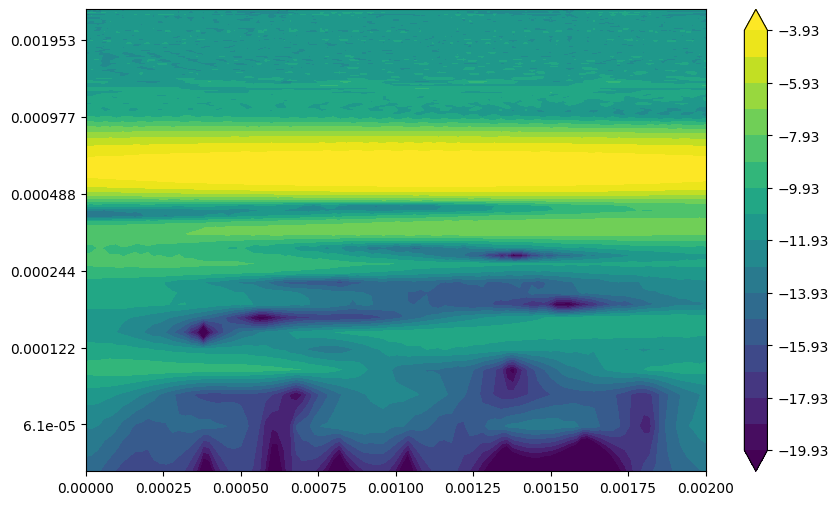
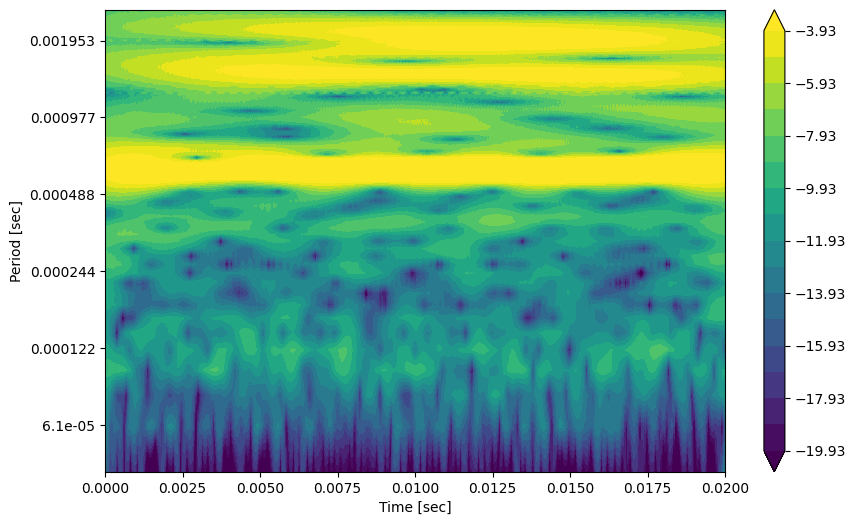
1
1

diff --git a/CWT_v2/CWT_ex.py b/CWT_v2/CWT_ex.py
@@ -19,11 +19,11 @@ class AudioUtil():
 # ==============================================
 
 data, Fsamp = AudioUtil.open("TRAIN M1 D40 L0 LABEL0 Num170.wav")
-MaxIdx = 100
+MaxIdx = 1000
 dataprocess = 'DataCut'  # ReSampl / DataCut
 # waveletname = 'cmor63.5-1'
-waveletname = 'cmor10-1'
-# waveletname = 'mexh'
+# waveletname = 'cmor10-1'
+waveletname = 'mexh'
 scale_min = 2
 scale_max = 300
 scales = np.arange(scale_min, scale_max)
@@ -62,8 +62,11 @@ if waveletname == 'mexh':
     Not Complex cwtmatr. --> direct plotting is possible !
     '''
     cwtmatr, freqs = pywt.cwt(data, scales,waveletname, dt)
+    # cwtmatr[0:15] = 0
     plt.imshow(cwtmatr, cmap='viridis', aspect='auto',
                  vmax=abs(cwtmatr).max(), vmin=-abs(cwtmatr).max())
+    plt.ylabel('Scale')
+    plt.xlabel('Time [bin]')
     plt.savefig('wavelet_{}_scale_min_{}_max_{}.png'.format(waveletname, scale_min, scale_max),
                 dpi=100, bbox_inches='tight')
     plt.close('all')
@@ -77,7 +80,7 @@ elif waveletname == 'cmor63.5-1':
     Below we'll use the complex Morlet wavelet in SciPy which looks like this:
     '''
 
-    cwtmatr, freqs = pywt.cwt(data, scales,waveletname, dt)  # cmor63.5-2    mexh
+    cwtmatr, freqs = pywt.cwt(data, scales,waveletname, dt)  #
     power = (abs(cwtmatr)) ** 2
     period = 1. / freqs
     scale0 = 0.000001
@@ -89,17 +92,19 @@ elif waveletname == 'cmor63.5-1':
     contourlevels = np.log2(levels)
 
     # Data
-    wt_freq_results = np.log2(period)
+    wt_prd_reuslts = np.log2(period)
     wt_power_results = np.log2(power)
-    print(wt_freq_results.shape)
+    print(wt_prd_reuslts.shape)
     print(wt_power_results.shape)
     fig, ax = plt.subplots(figsize=(10, 6))
-    im = ax.contourf(time, wt_freq_results, wt_power_results, contourlevels, extend='both', cmap='viridis')
-    yticks = 2**np.arange(np.ceil(wt_freq_results.min()), np.ceil(wt_freq_results.max()))
+    im = ax.contourf(time, wt_prd_reuslts, wt_power_results, contourlevels, extend='both', cmap='viridis')
+    yticks = 2**np.arange(np.ceil(wt_prd_reuslts.min()), np.ceil(wt_prd_reuslts.max()))
     yticks = np.round(yticks, 6)
     # print(yticks)
     ax.set_yticks(np.log2(yticks))
     ax.set_yticklabels(yticks)
+    ax.set_ylabel("Period [sec]")
+    ax.set_xlabel("Time [sec]")
     # ax.invert_yaxis()
 
     fig.colorbar(im, orientation="vertical")
@@ -111,7 +116,7 @@ elif waveletname == 'cmor63.5-1':
 
 elif waveletname == 'cmor10-1':
 
-    cwtmatr, freqs = pywt.cwt(data, scales,waveletname, dt)  # cmor63.5-2    mexh
+    cwtmatr, freqs = pywt.cwt(data, scales,waveletname, dt)
     power = (abs(cwtmatr)) ** 2
     period = 1. / freqs
     scale0 = 0.000001
@@ -123,16 +128,18 @@ elif waveletname == 'cmor10-1':
     contourlevels = np.log2(levels)
 
     # Data
-    wt_freq_results = np.log2(period)
+    wt_prd_reuslts = np.log2(period)
     wt_power_results = np.log2(power)
-    print('shape of wt_freq_results  :'  , wt_freq_results.shape)
+    print('shape of wt_prd_reuslts  :'  , wt_prd_reuslts.shape)
     print('shape of wt_power_results  :' ,wt_power_results.shape)
     fig, ax = plt.subplots(figsize=(10, 6))
-    im = ax.contourf(time, wt_freq_results, wt_power_results, contourlevels, extend='both', cmap='viridis')
-    yticks = 2**np.arange(np.ceil(wt_freq_results.min()), np.ceil(wt_freq_results.max()))
+    im = ax.contourf(time, wt_prd_reuslts, wt_power_results, contourlevels, extend='both', cmap='viridis')
+    yticks = 2**np.arange(np.ceil(wt_prd_reuslts.min()), np.ceil(wt_prd_reuslts.max()))
     yticks = np.round(yticks, 6)
     ax.set_yticks(np.log2(yticks))
     ax.set_yticklabels(yticks)
+    ax.set_ylabel("Period [sec]")
+    ax.set_xlabel("Time [sec]")
     # ax.invert_yaxis()
 
     fig.colorbar(im, orientation="vertical")

diff --git a/README.md b/README.md
@@ -63,7 +63,7 @@ def FFT(sample_rate, duration, signal):
     + **Reason** : Below matlab code is doing 'normalize' as 'X=fft(x)/N*2; % normalize the data'.  
     
                    But python [ex3] code get the magnitude values after 'abs' function('amplitude_Hz = 2*abs(Y)').    
-                   
+               
         ```matlab
         % test.m
         clear;clc;
@@ -71,13 +71,13 @@ def FFT(sample_rate, duration, signal):
         t= 0:dt:1;
         noise = 2.5 .*rand(length(t),1 );
         x= sin(2*pi*50*t) + sin(2*pi*120*t);
-
+        
         positiveFFT(x',length(x'));
-
+        
         Magnitude=(abs(ans))';
         Order=0:1:length(Magnitude)-1;
         bar(Order, Magnitude);
-
+        
         grid on;
         xlabel('Harmonic Order','FontSize',15);
         ylabel('Mag','FontSize',15);
@@ -98,7 +98,7 @@ def FFT(sample_rate, duration, signal):
          end
            %only want the first half of the FFT, since it is redundant
            cutOff = ceil(N/2); 
-
+        
            %take only the first half of the spectrum
            X = X(1:cutOff);
            freq = freq(1:cutOff);
@@ -385,26 +385,25 @@ As mentioned above, start value of scale is recommended to being above 2 for ove
 
 # Running Results 
 
-(if u want to see the origin figure, refer to ppt in this project)
+* if u want to see the origin figure, refer to ppt in this project
+* <mark style='background-color: #fff5b1'> Analysis </mark>
+  * If Scale includes large scale, it can output results more segmented.
+  * If band width frequency of cmor is set to high level, it can output more segmented outputs in time domain region. (but gonna be sensitive)
+  * <mark style='background-color: #fff5b1'> Caution  </mark>: frequency aspects are different in each graph. (cause of plot functions are set to different)
 
-<img width="779" alt="스크린샷 2022-11-20 오후 10 01 39" src="https://user-images.githubusercontent.com/71545160/202903258-8e6780f0-f523-4458-96a5-e9de4cad9109.png">
-
-<img width="779" alt="스크린샷 2022-11-20 오후 10 01 55" src="https://user-images.githubusercontent.com/71545160/202903266-9bd55d75-5327-41e9-a5c4-e8dcbc9feb30.png">
-
-<img width="779" alt="스크린샷 2022-11-20 오후 10 02 10" src="https://user-images.githubusercontent.com/71545160/202903274-c0fd43a9-ba0f-4355-87a8-075946e65310.png">
+![image-20221123140825145](C:\Users\HALAB_G\AppData\Roaming\Typora\typora-user-images\image-20221123140825145.png)
 
 
 # CWT_v2  - ex2
 
-You can verify a relation between 2 things.
+ You can verify a relation between 2 things. 
 
-* Relation b/w FREQEUNCies and SCALEs
-* Relation b/w CENTER FREQUENCY and SCALEs
+* <mark style='background-color: #fff5b1'> Relation b/w FREQEUNCies and SCALEs </mark>
+* <mark style='background-color: #fff5b1'> Relation b/w CENTER FREQUENCY and SCALEs </mark>
 
 As mentioned above, if u set 'C=1' , the resonalble results are come from 'above scale 2'.
 
 If you want to get reasonable results from 'scale 1', then you are recommended to set 'C' below 1. (ex. C = 0.5)
 
 <img width="659" alt="스크린샷 2022-11-20 오후 10 03 16" src="https://user-images.githubusercontent.com/71545160/202903322-a5ea19ee-2344-46f2-9d63-1a56620df83d.png">
-
 
